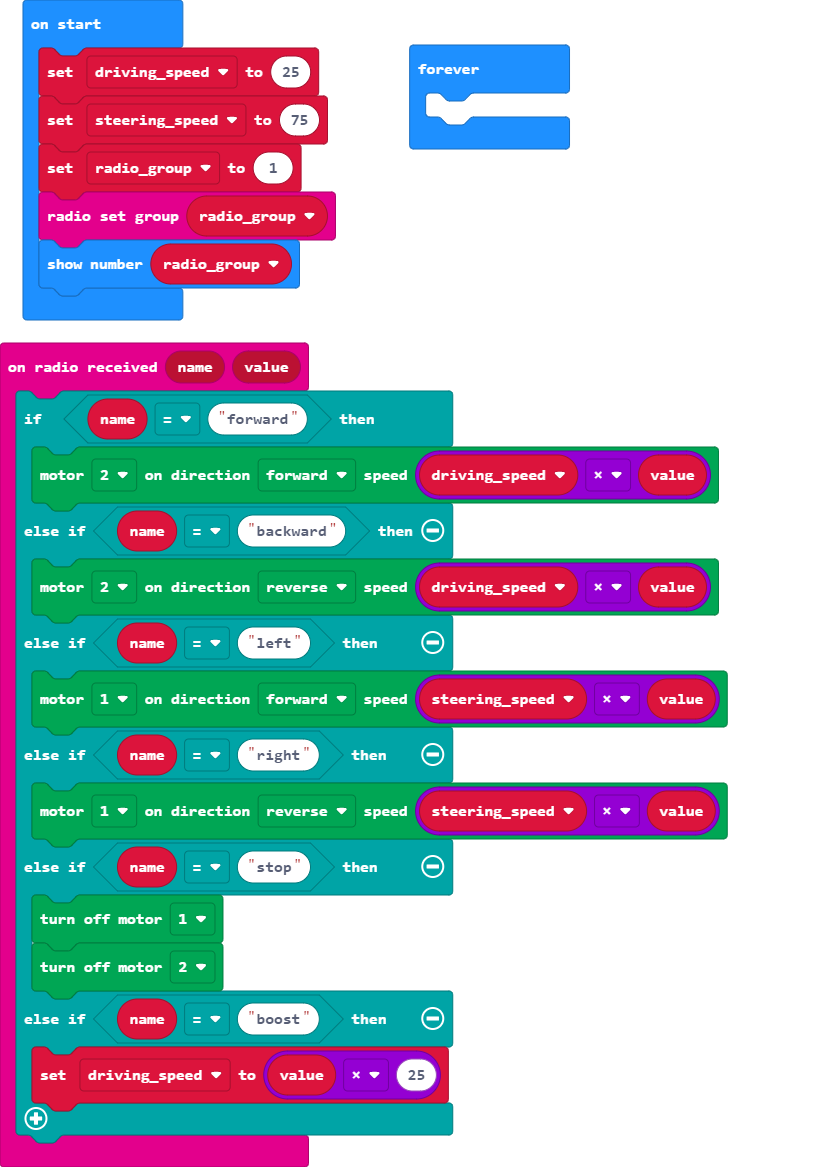
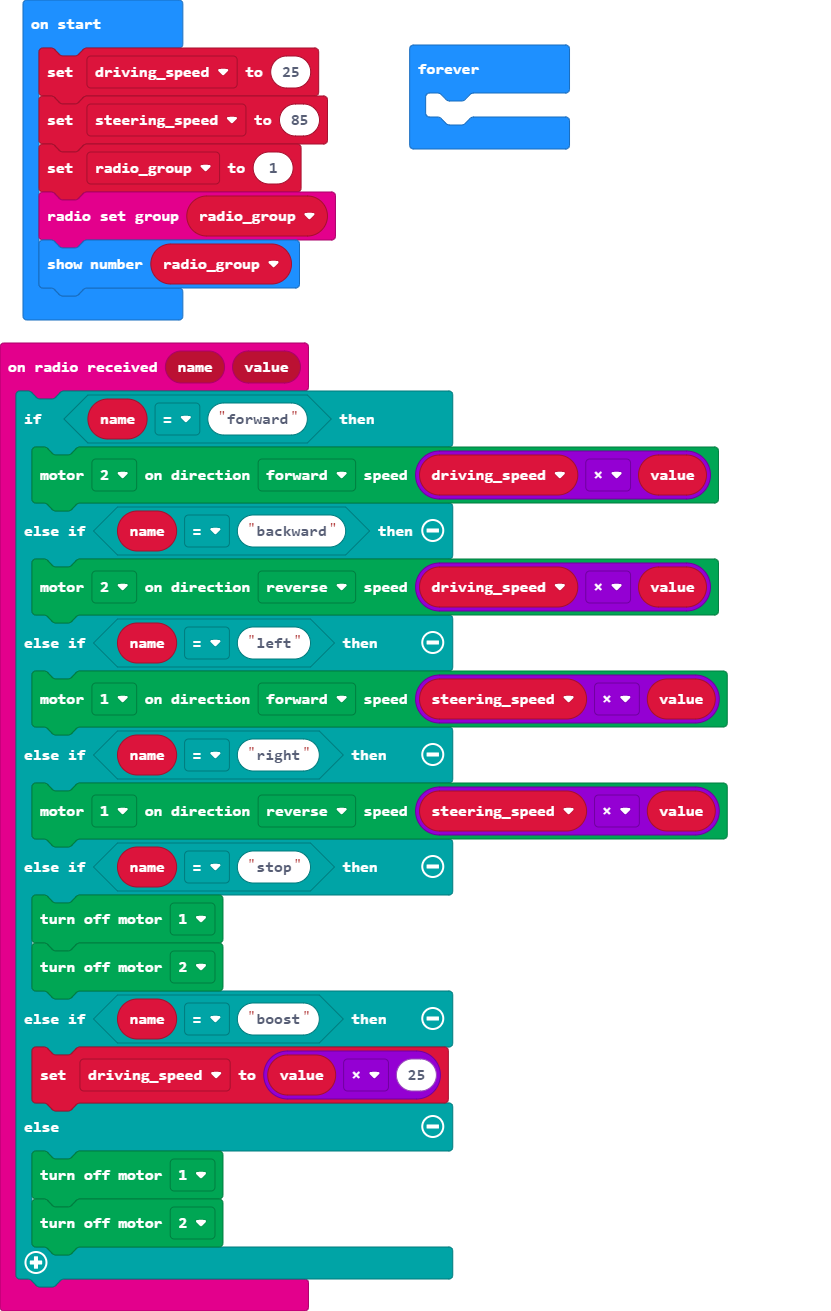
Update main.blocks, main.ts

diff --git a/main.ts b/main.ts
@@ -12,12 +12,15 @@ radio.onReceivedValue(function (name, value) {
         kitronik_motor_driver.motorOff(kitronik_motor_driver.Motors.Motor2)
     } else if (name == "boost") {
         driving_speed = value * 25
+    } else {
+        kitronik_motor_driver.motorOff(kitronik_motor_driver.Motors.Motor1)
+        kitronik_motor_driver.motorOff(kitronik_motor_driver.Motors.Motor2)
     }
 })
 let steering_speed = 0
 let driving_speed = 0
 driving_speed = 25
-steering_speed = 75
+steering_speed = 85
 let radio_group = 1
 radio.setGroup(radio_group)
 basic.showNumber(radio_group)
